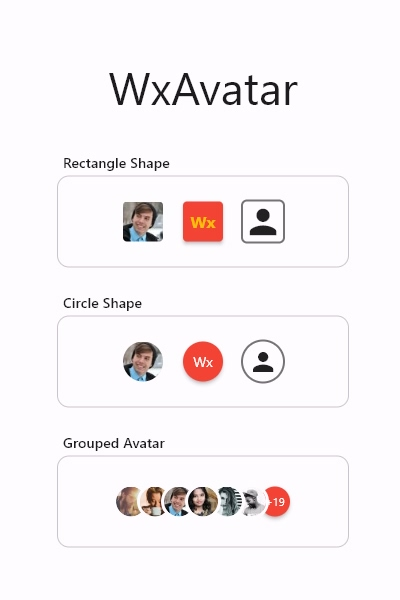
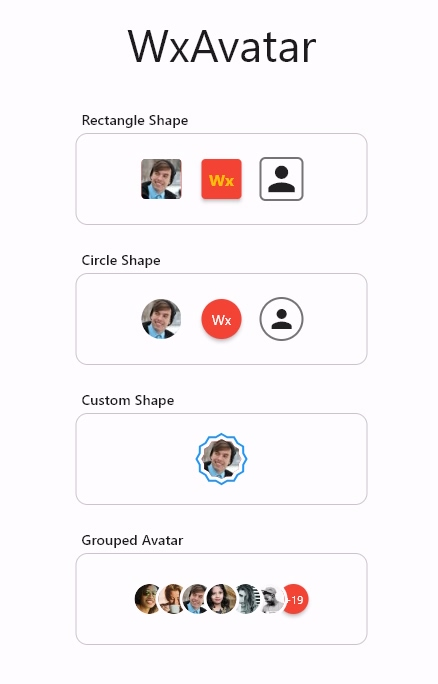
Releases v2.0.0

diff --git a/example/lib/main.dart b/example/lib/main.dart
@@ -37,16 +37,16 @@ class MyHomePage extends StatelessWidget {
               const SizedBox(height: 40),
               const WxText.displayMedium('WxAvatar'),
               const SizedBox(height: 40),
-              Wrapper(
+              const Wrapper(
                 title: 'Rectangle Shape',
                 child: Wrap(
                   spacing: 20,
                   children: [
-                    const WxAvatar(
+                    WxAvatar(
                       backgroundColor: Colors.red,
                       image: NetworkImage('https://i.pravatar.cc/50?u=2'),
                     ),
-                    const WxAvatar(
+                    WxAvatar(
                       elevation: 3.0,
                       backgroundColor: Colors.red,
                       foregroundStyle: TextStyle(
@@ -60,10 +60,9 @@ class MyHomePage extends StatelessWidget {
                       borderStyle: BorderStyle.solid,
                       borderColor: Colors.black54,
                       borderWidth: 2,
-                      backgroundColor: Theme.of(context).colorScheme.surface,
                       foregroundColor: Colors.black87,
                       foregroundSize: 40,
-                      child: const Icon(Icons.person),
+                      child: Icon(Icons.person),
                     ),
                   ],
                 ),
@@ -90,6 +89,24 @@ class MyHomePage extends StatelessWidget {
                       foregroundColor: Colors.black87,
                       foregroundSize: 30,
                       child: const Icon(Icons.person),
+                    ),
+                  ],
+                ),
+              ),
+              const SizedBox(height: 20),
+              const Wrapper(
+                title: 'Custom Shape',
+                child: Wrap(
+                  spacing: 20,
+                  children: [
+                    WxAvatar(
+                      border: StarBorder(points: 12, innerRadiusRatio: .9),
+                      borderStyle: BorderStyle.solid,
+                      borderAlign: 5,
+                      borderWidth: 2,
+                      borderColor: Colors.blue,
+                      backgroundColor: Colors.red,
+                      image: NetworkImage('https://i.pravatar.cc/50?u=2'),
                     ),
                   ],
                 ),
@@ -124,6 +141,7 @@ class MyHomePage extends StatelessWidget {
                   },
                 ),
               ),
+              const SizedBox(height: 40),
             ],
           ),
         ),

diff --git a/CHANGELOG.md b/CHANGELOG.md
@@ -1,3 +1,8 @@
+## 2.0.0
+
+* Use wx_box v3.0.0.
+* Removed BoxShape and `shape` property, use OutlinedBorder `border` instead.
+
 ## 1.1.0
 
 * Added option to enable or disable animation.
